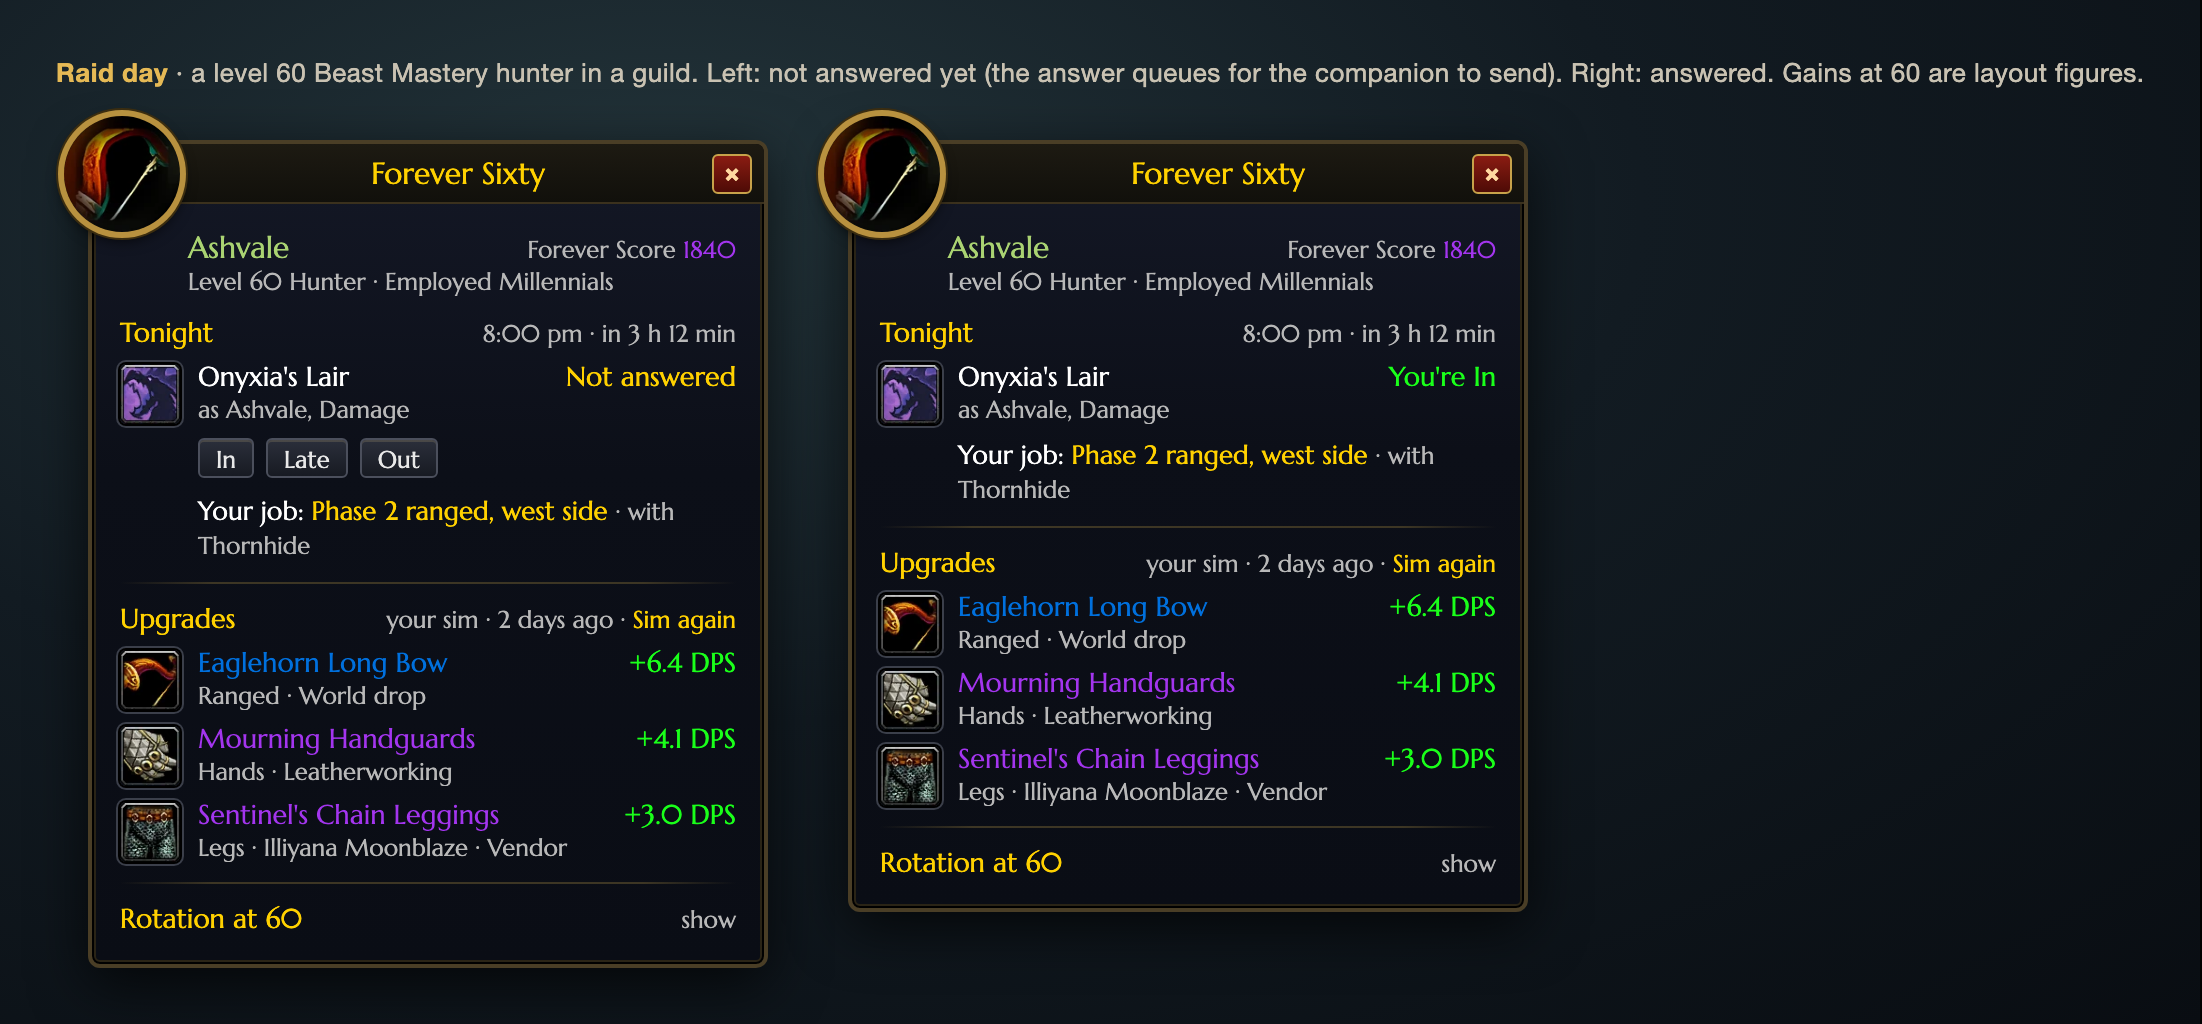
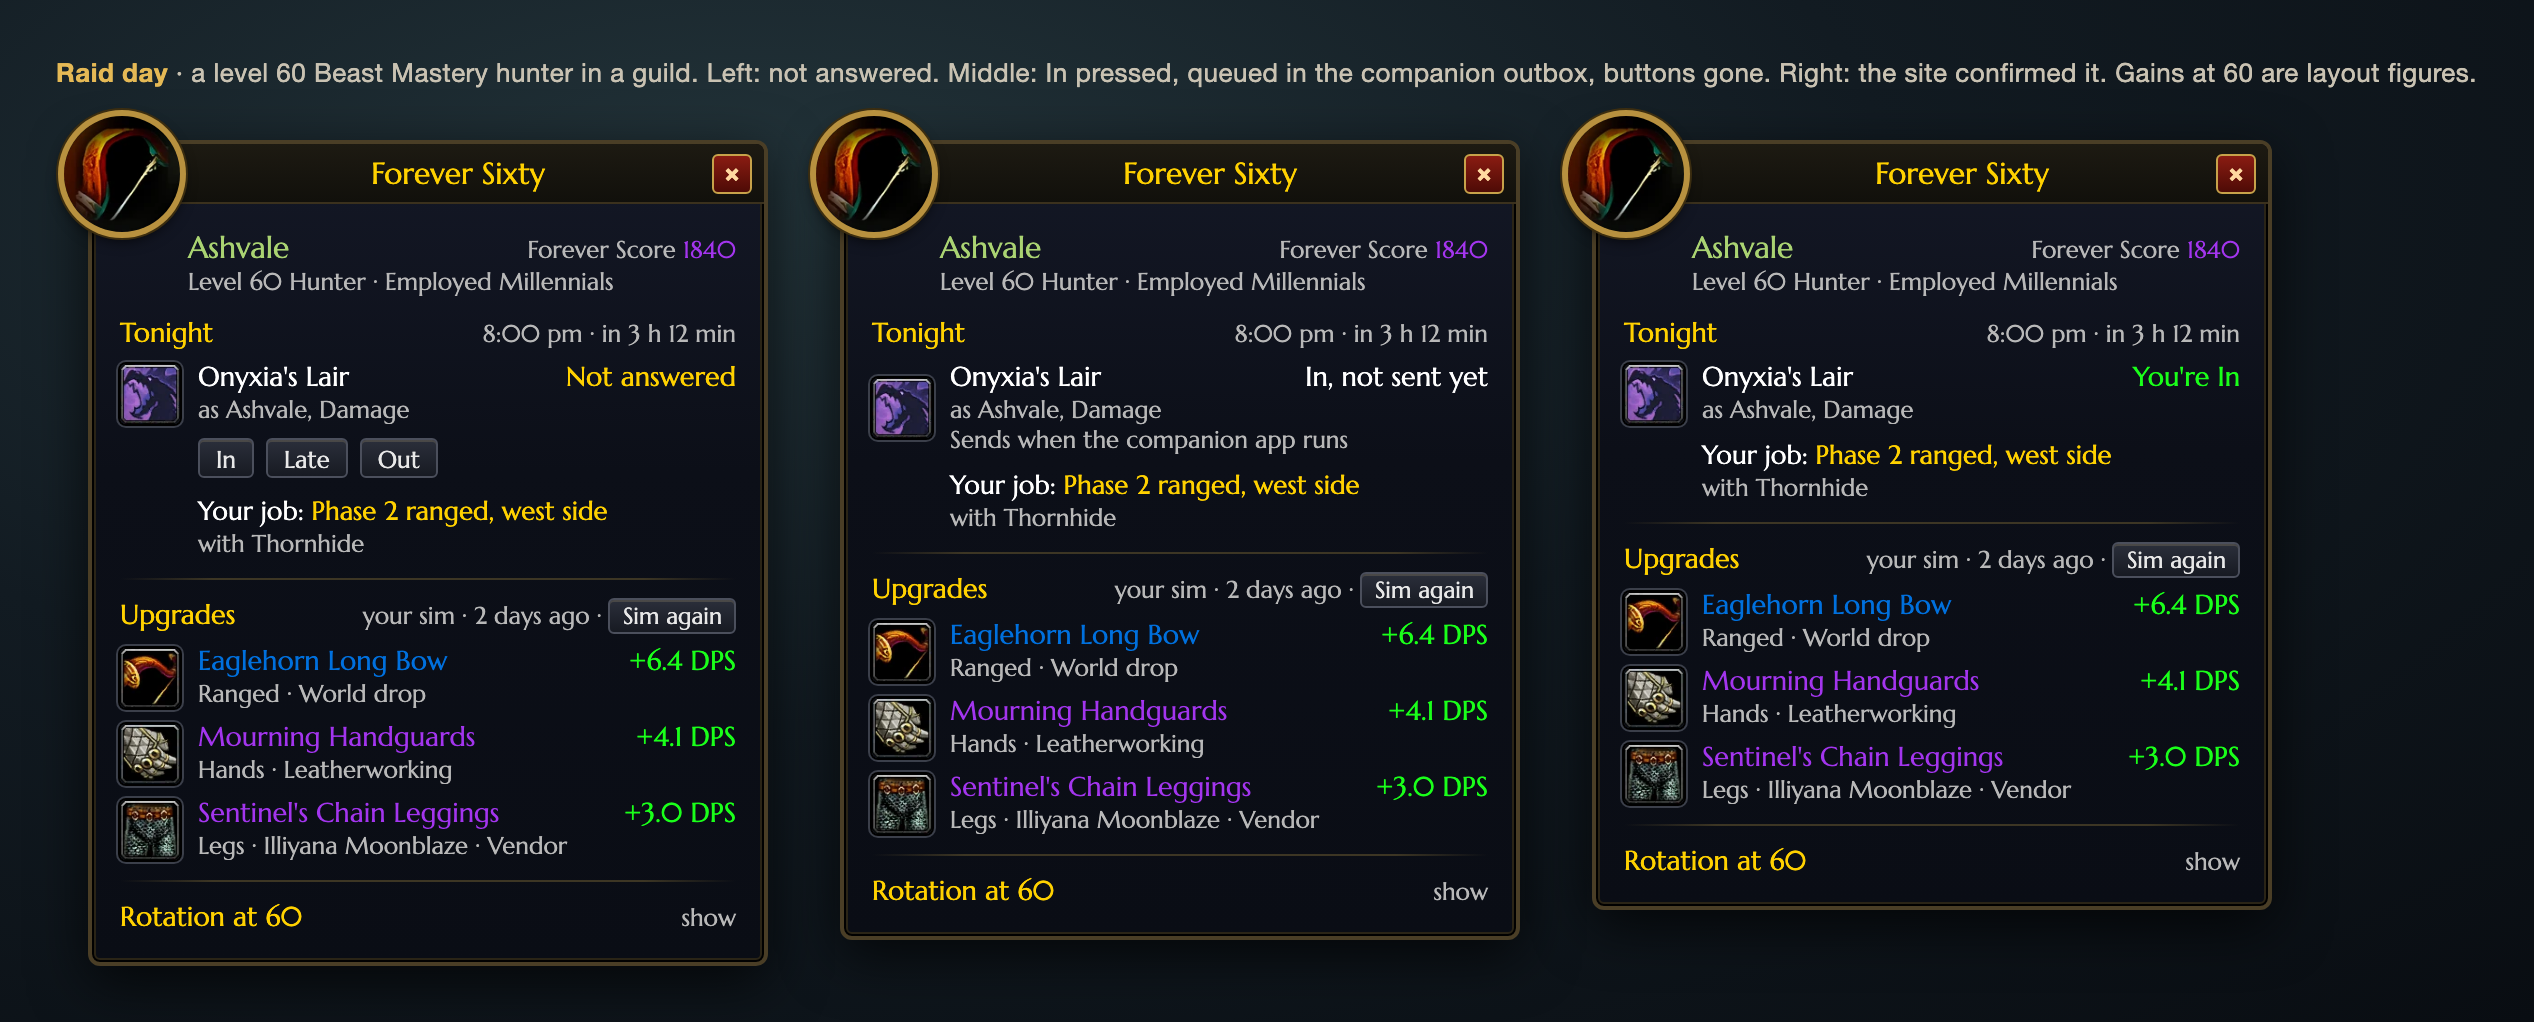
docs(design): addon UX final round, all three personas SHIP
Claude-Session: https://claude.ai/code/session_01Wrtayzxz2jvhjren4pWihn

diff --git a/design/mocks/addon_ux.py b/design/mocks/addon_ux.py
@@ -601,7 +601,7 @@ def board_panel_leveller():
                f'<span class="btn" style="{SMALL_BTN}">Talents</span></div>')
     rotation = ('<div class="sect">Rotation at 24<span class="r">hover for the full rule</span></div>'
                 + spell_row('ability_hunter_snipershot', "Hunter's Mark", 'Whenever the target is not marked')
-                + spell_row('inv_spear_07', 'Aimed Shot', 'Whenever the shared cooldown is up')
+                + spell_row('inv_spear_07', 'Aimed Shot', 'When its cooldown, shared with Multi-Shot, is up')
                 + spell_row('ability_upgrademoonglaive', 'Multi-Shot', 'On cooldown, above a quarter mana')
                 + spell_row('ability_hunter_quickshot', 'Serpent Sting', 'Under 1.5 seconds left')
                 + spell_row('ability_impalingbolt', 'Arcane Shot', 'To fill a gap')
@@ -617,19 +617,19 @@ def answer_buttons():
     return ''.join(f'<span class="btn grey" style="{SMALL_BTN}">{a}</span>' for a in ('In', 'Late', 'Out'))
 
 
-def tonight(answer_html, buttons):
+def tonight(answer_html, buttons, sub='as Ashvale, Damage'):
     row = (f'<div class="sect">Tonight<span class="r">8:00 pm · in 3 h 12 min</span></div>'
            f'<div class="irow">{img("inv_misc_head_dragon_black", 30)}<div class="tx"><div class="n">'
-           f'<span>Onyxia\'s Lair</span>{answer_html}</div><div class="s">as Ashvale, Damage</div></div></div>')
+           f'<span>Onyxia\'s Lair</span>{answer_html}</div><div class="s">{sub}</div></div></div>')
     if buttons:
         row += f'<div style="display:flex;gap:6px;margin:0 0 8px 39px">{answer_buttons()}</div>'
     return (row + f'<div style="margin-left:39px;font-size:13px">Your job: <span style="color:{C["gold"]}">Phase 2 '
-            f'ranged, west side</span> <span class="small">· with Thornhide</span></div>')
+            f'ranged, west side</span></div><div class="small" style="margin-left:39px">with Thornhide</div>')
 
 
 def board_panel_raider():
     upgrades = (f'<div class="sect">Upgrades<span class="r">your sim · 2 days ago · '
-                f'<span style="color:{C["gold"]}">Sim again</span></span></div>'
+                f'<span class="btn grey" style="height:18px;padding:0 6px;font-size:11.5px">Sim again</span></span></div>'
                 + upgrade_row('inv_weapon_bow_11', iname(13023), '6.4', 'Ranged · World drop')
                 + upgrade_row('inv_gauntlets_11', iname(279257), '4.1', 'Hands · Leatherworking')
                 + upgrade_row('inv_pants_03', iname(237819), '3.0', 'Legs · Illiyana Moonblaze · Vendor'))
@@ -637,11 +637,15 @@ def board_panel_raider():
     fact, score = 'Level 60 Hunter · Employed Millennials', score_fact(1840, 'Epic')
     p1 = panel('Ashvale', fact, [tonight(f'<span style="color:{C["gold"]}">Not answered</span>', True),
                                  upgrades, rotation], score=score)
+    pq = panel('Ashvale', fact, [tonight('<span style="color:#ffffff">In, not sent yet</span>', False,
+                                         sub='as Ashvale, Damage<br>Sends when the companion app runs'),
+                                 upgrades, rotation], score=score)
     p2 = panel('Ashvale', fact, [tonight(f'<span style="color:{C["green"]}">You\'re In</span>', False),
                                  upgrades, rotation], score=score)
-    body = (f'<p class="cap"><b>Raid day</b> · a level 60 Beast Mastery hunter in a guild. Left: not answered yet '
-            f'(the answer queues for the companion to send). Right: answered. Gains at 60 are layout figures.</p>'
-            f'<div class="row" style="padding:16px 0 0 16px;gap:40px">{p1}{p2}</div>')
+    body = (f'<p class="cap"><b>Raid day</b> · a level 60 Beast Mastery hunter in a guild. Left: not answered. '
+            f'Middle: In pressed, queued in the companion outbox, buttons gone. Right: the site confirmed it. '
+            f'Gains at 60 are layout figures.</p>'
+            f'<div class="row" style="padding:16px 0 0 16px;gap:36px">{p1}{pq}{p2}</div>')
     return page(body)
 
 
@@ -651,7 +655,8 @@ def board_panel_fresh():
              ('ability_hunter_swiftstrike', 'Survival', 'Melee hunter, traps and Lacerating Strikes')]
     path = ('<div class="sect">Pick your path<span class="r">you can change it later</span></div>'
             + ''.join(f'<div class="irow">{img(i, 30)}<div class="tx"><div class="n"><span>{n}</span></div>'
-                      f'<div class="s">{t}</div></div><span class="btn" style="{SMALL_BTN}">Pick</span></div>'
+                      f'<div class="s" style="white-space:normal">{t}</div></div>'
+                      f'<span class="btn" style="{SMALL_BTN}">Pick</span></div>'
                       for i, n, t in specs)
             + '<div class="small">Loads that path\'s leveling build. Your first talent point comes at level 10.</div>')
     rotation = ('<div class="sect">Rotation at 6</div>'

diff --git a/design/specs/2026-11-08-addon-ux.md b/design/specs/2026-11-08-addon-ux.md
@@ -250,7 +250,7 @@ The guildmate's live line and the `/fs link` hint are cut (both reviewers read t
 - Never in combat; it does not play while the chip is hidden (talent window open, right-click hidden).
 - The existing new-point ring (a few seconds when a point arrives) keeps working after that.
 - The chip itself: full opacity always; never an icon without words. Idle text: the next talent level (`Next talent at 25`), else `Forever Sixty`. An actionable state (`Take`, `Equip`, the raid) always outranks the idle line.
-- New chip state, highest priority from 18 hours before a raid's start until 6 hours after it (`RaidAssign.SHOWN_FOR_SECONDS`): `Tonight 8:00 pm: Onyxia's Lair`, from the same inbox data as the panel's Tonight region.
+- New chip state, highest priority from 18 hours before a raid's start until 6 hours after it (`RaidAssign.SHOWN_FOR_SECONDS`): `Tonight 8:00 pm: Onyxia's Lair`, from the same inbox data as the panel's Tonight region. Once the panel has been opened that day, the raid drops back to normal priority for the session until one hour before the pull.
 - Hover, two dim lines: `Click: open Forever Sixty` and `Right-click: hide until level N` (`hide until /fs chip` at 60). The chip's own line repeats first only when the chip had to shorten it.
 
 ### 3.3 Settings
@@ -292,16 +292,16 @@ Each region has a gold heading and a muted right-hand note; one rule between reg
 1. **Tonight** (only when the inbox holds a raid starting within 18 hours, or running).
    - Heading note: `8:00 pm · in 3 h 12 min` (the client's local clock; `RaidAssign.epochOf`).
    - Row: the raid's icon, zone name, the answer right-aligned: `You're In` (green), `Late` (gold), `Bench` (white), `Out` (grey), `Not answered` (gold); under it, muted, `as Ashvale, Damage` (E7: who and as what).
-   - Not answered: three buttons `In`, `Late`, `Out` under the row. The addon never touches the network: a click writes `{ raid_id, answer, at }` to the companion outbox (`ForeverSixtyDB.outbox`, contract 4, the path `Sim me` already uses) and the row reads `In · sends when the companion runs` (muted after the answer) until the inbox's next sign-up message confirms it, then `You're In`. Answered: no buttons and no line about the app.
+   - Not answered: three buttons `In`, `Late`, `Out` under the row. The addon never touches the network: a click writes `{ raid_id, answer, at }` to the companion outbox (`ForeverSixtyDB.outbox`, contract 4, the path `Sim me` already uses) and the answer reads `In, not sent yet` (white) with a muted line `Sends when the companion app runs` under `as Ashvale, Damage`, and the buttons go, until the inbox's next sign-up message confirms it, then `You're In`. Answered: no buttons and no line about the app.
    - `Your job: <label>` in gold on one line, then `· with <name>` muted when the slot has one or two other names (`with`), nothing when it has more. The slot's purpose is the row's hover, not printed.
    - **Contract gaps** (owned by the API and companion lanes; the addon renders without them): an inbox message `raid_signup` `{ raid_id, raid, title, starts_at, answer: in|late|bench|out|none, role, late_minutes? }`, one per upcoming raid of the character's guild in the next 7 days; an outbox entry `raid_answer` `{ raid_id, answer, late_minutes?, at }`. Until they exist the region shows only when a `raid_assignment` exists, the answer reads `On the roster` (an assignment is only sent to In, Late or Bench) and no buttons show.
    - The day after a raid (no upcoming raid, a `last_raid` message under 2 days old): the region is **Last raid** instead: date, each boss's percentile in parse colours, the biggest loss for the worst boss (today's chip `lastnight` state and the flyout's region).
-2. **Upgrades.** At most three rows: icon, name in quality colour, gain right in green, muted line `<slot> · <source>` (the tooltip's case 16 source), plus `· level 27` when the item's required level is above the character's. A bag upgrade leads with the arrow `In your bags ·` and an `Equip` button (today's chip action). Note right: nothing on the shipped estimate (the leveller read "estimate" as jargon); `your sim · 2 days ago · Sim again` once the character has a sim, where `Sim again` queues one through the outbox and becomes `Sim queued`. Under fewer than three: `Your other slots are best for your level.` All best: `Every slot is best for your build.` Below the first band: `Gear picks start at level 20. Until then, the green arrow on your bags marks anything that beats what you wear.` Rows are the same `ItemTooltip.sectionFor` Next lines the paper doll reads (one verdict source).
+2. **Upgrades.** At most three rows: icon, name in quality colour, gain right in green, muted line `<slot> · <source>` (the tooltip's case 16 source), plus `· level 27` when the item's required level is above the character's. A bag upgrade leads with the arrow `In your bags ·` and an `Equip` button (today's chip action). Note right: nothing on the shipped estimate (the leveller read "estimate" as jargon); `your sim · 2 days ago · Sim again` once the character has a sim, where `Sim again` queues one through the outbox and becomes `Sim queued`. Under fewer than three: `Your other slots are best for your level.` All best: `Every slot is best for your build.` Below the first band: `Gear picks start at level 20. Until then, the green arrow on your bags marks anything that beats what you wear.` Rows are the same `ItemTooltip.sectionFor` Next lines the paper doll reads (one verdict source). Rows are never cut with an ellipsis: a source too long for one line wraps to a second.
 3. **Talents.** Note right: `12 of 15 on plan · 3 off plan` (off plan in the warning colour, hover names the talents). Row: the talent's client icon, `Level 25: Lethal Attacks`, `1 of 5` right, muted `<build name> · Change` (Change opens the build dialog), and a `Talents` button (opens the talent window, which shows the ring). With points waiting: `Spend 2 now`. A finished build on plan: the region is not shown. Finished with points off plan: the heading and its off-plan note only. Under 10 with no build: **Pick your path** (three spec rows with their tab icons, the one-line playstyle from `specPlaystyle`, a `Pick` button each, and `Loads that path's leveling build. Your first talent point comes at level 10.`).
 4. **Rotation at <level>.** Under 60: every line of `Rotation.model`'s band for the build's spec and level (six at most): spell icon, name, and the condition's first clause; the full condition on hover. One dimmed row for the next ability learned (`Rapid Fire · At level 26`). Note right: `hover for the full rule`. At 60: a single collapsed heading `Rotation at 60 · show` (expands in place, remembered per character), except for the first open after a new rank is learned, when it opens expanded.
 5. There is no separate Score region: the score sits in the head.
 
-Accuracy note for the build lane (tenet 8): the levelling mock's rotation is `Data.lua` `rotations["hunter-beast-mastery"]` band 22 verbatim (Forever's hunters have Aimed Shot in that band), and `Lethal Attacks` is the Beast Mastery tier-1 talent 105011 in `data/builds/1.60.1.70790/talents/hunter.json` (icon `ability_searingarrow`). The leveller persona questioned both from retail Classic memory; the client data is the source.
+Accuracy note for the build lane (tenet 8): the levelling mock's rotation is `Data.lua` `rotations["hunter-beast-mastery"]` band 22 verbatim (Forever's hunters have Aimed Shot in that band), and `Lethal Attacks` is the Beast Mastery tier-1 talent 105011 in `data/builds/1.60.1.70790/talents/hunter.json` (icon `ability_searingarrow`). The leveller persona questioned both from retail Classic memory; the client data is the source. Before the build ships the panel, confirm against `SkillLineAbility` (the trainables source) that a Beast Mastery hunter learns Aimed Shot by level 22 in Forever; if it is a Marksmanship talent the build has not taken, the rotation row must not show it. A condition's first clause names what a shared cooldown is shared with (`When its cooldown, shared with Multi-Shot, is up`). Spec lines on Pick your path wrap to two lines rather than end in an ellipsis.
 
 ### 4.4 Height budget
 

diff --git a/design/reviews/2026-11-08-addon-ux/review-round-2.md b/design/reviews/2026-11-08-addon-ux/review-round-2.md
@@ -1,0 +1,42 @@
+# Addon UX, persona review round 2
+
+Round-2 boards and spec (commit 7bb65be77) with `review-round-1.md`'s dispositions. Same three `wow-player` personas, resumed with their round-1 context.
+
+| Persona | Verdict |
+|---|---|
+| Leveller | **SHIP**, one copy must-fix |
+| Raider | **SHIP**, one must-fix |
+| Player who hates clutter | **SHIP**, shoulds only |
+
+All three SHIP. The two must-fixes landed in the final commit, with the dispositions below.
+
+## Leveller: SHIP
+
+| # | Finding | Disposition |
+|---|---|---|
+| M1 | Pick your path lines end in an ellipsis ("Lacerating Stri…") | **Fixed.** Spec lines wrap to two lines; the spec forbids ellipses on panel rows (§4.3). |
+| S1 | Confirm a Beast Mastery hunter learns Aimed Shot by 22 in Forever | **Accepted as a build-lane gate.** §4.3: check `SkillLineAbility` before ship; drop the row if it is an untaken Marksmanship talent. |
+| S2 | Name the shared cooldown | **Accepted.** `When its cooldown, shared with Multi-Shot, is up`. |
+| S3 | Pet row first in the follow-up | Noted for the follow-up spec. |
+| S4 | `Preparation (flasks, food, enchants)` stretches the Shift tooltip | **Kept.** It is Shift-only, and "Consumables" would drop enchants, a third of what it measures. |
+| S5 | Grey small gains in the panel | **Declined.** Every row is already above the 1.0 floor; greying would add a fifth tooltip colour meaning. |
+
+## Raider: SHIP
+
+| # | Finding | Disposition |
+|---|---|---|
+| M1 | No visible pressed-but-unsent state | **Fixed.** Middle board of `panel-raider-60.png`: `In, not sent yet`, buttons gone, `Sends when the companion app runs` on its own line; spec §4.3 updated. |
+| S1 | "with Thornhide" orphaned on wrap | **Fixed.** `with Thornhide` is its own muted line under the job. |
+| S2 | Striker's Mark from Magmadar; a Disenchant button | Striker's Mark is Magmadar's drop in the Molten Core loot table; the Classic-era group roll frame has Need, Greed and Pass only. Gain stays labelled a layout figure. |
+| S3 | Phase 2 wording | Out of scope (API slot templates); passed to the coordinator. |
+| S4 | `Sim again` reads as a status | **Fixed.** Drawn as a small grey button. |
+
+## Player who hates clutter: SHIP
+
+| # | Finding | Disposition |
+|---|---|---|
+| S1 | Gold and the arrow | Accepted by the reviewer; no change. |
+| S2 | Drop the Shift sentence from the welcome | **Kept.** Shift is the only door to everything §2.3 moved off the default hover; the welcome is the one place it is taught. |
+| S3 | Tonight row is heavy | Accepted by the reviewer as raid-day only. |
+| S5 | The raid-day chip line for 18 hours | **Accepted.** Once the panel has been opened on raid day, the chip drops the raid back to normal priority for the session until one hour before the pull. Spec §3.2 carries it. |
+| S6 | `Tooltips only` first in Settings, silencing chip, welcome and marks | Already so (§3.3). |
